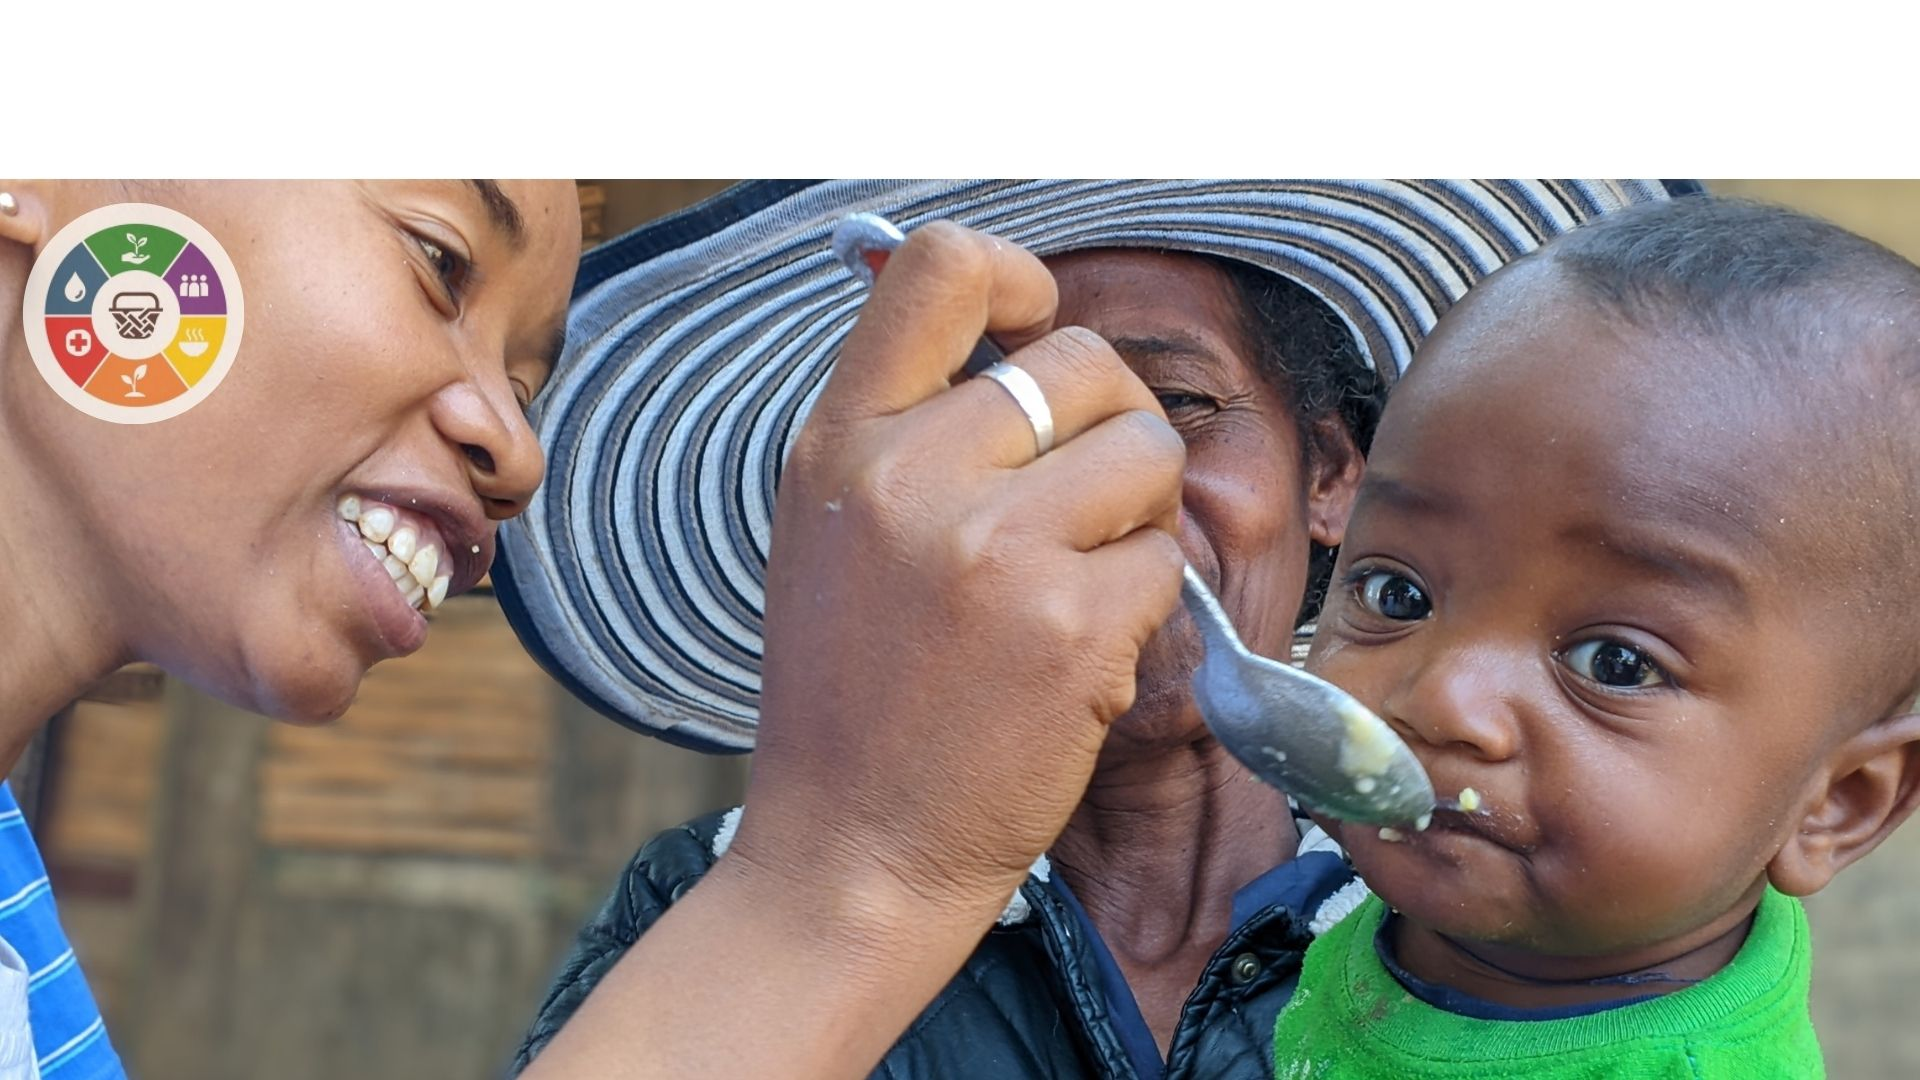
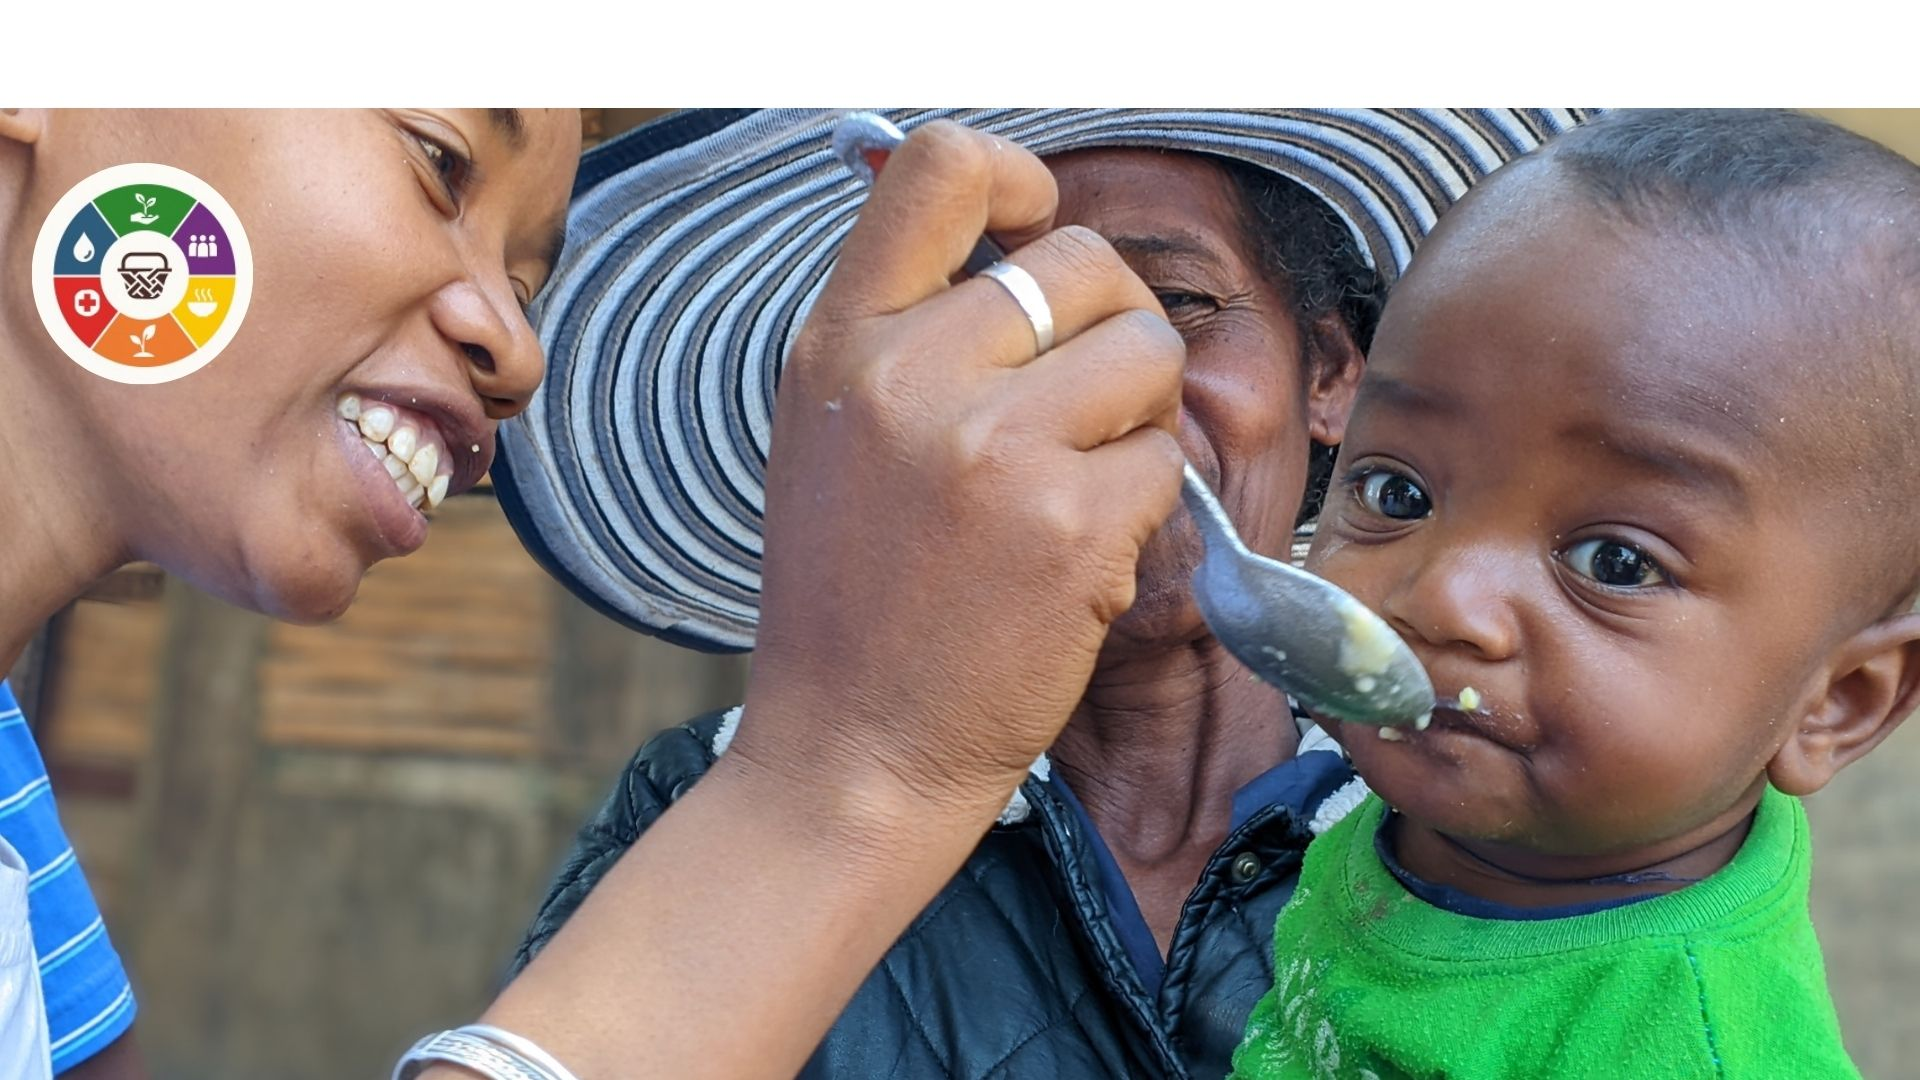
amelioration image

diff --git a/css/blog.css b/css/blog.css
@@ -34,11 +34,18 @@
     
     .article-cover-image {
         width: 100%;
+        /* Définir une largeur maximale pour que le centrage soit visible */
+        max-width: 900px; /* Exemple : Fixer une largeur maximale */ 
         height: auto;
         max-height: 450px;
         object-fit: cover;
         border-radius: 8px;
         margin-bottom: 30px;
+        
+        margin: 0 auto 30px auto; 
+
+        /* Assurez-vous qu'elle est traitée comme un bloc (ce qui est généralement le cas des balises <img>) */
+        display: block; 
     }
     
     /* --- CORPS DE L'ARTICLE (TEXTE ET TITRES INTERNES) --- */

diff --git a/js/blog-data.js b/js/blog-data.js
@@ -133,7 +133,10 @@ To ensure sustainable recovery, HARONA supports the implementation of agroecolog
     id: 1,
     slug: 'wash-nutrition-atsimo-atsinanana',
     date: '2025-10-13', 
-    category: 'WASH',
+    category: {
+      fr: 'WASH',
+      en: 'WASH',
+    },
     image: 'asset/image/blog/wash.jpg',
     title: {
       fr: 'WASH et Nutrition à Atsimo Atsinanana : Construire les bases d’une santé durable',
